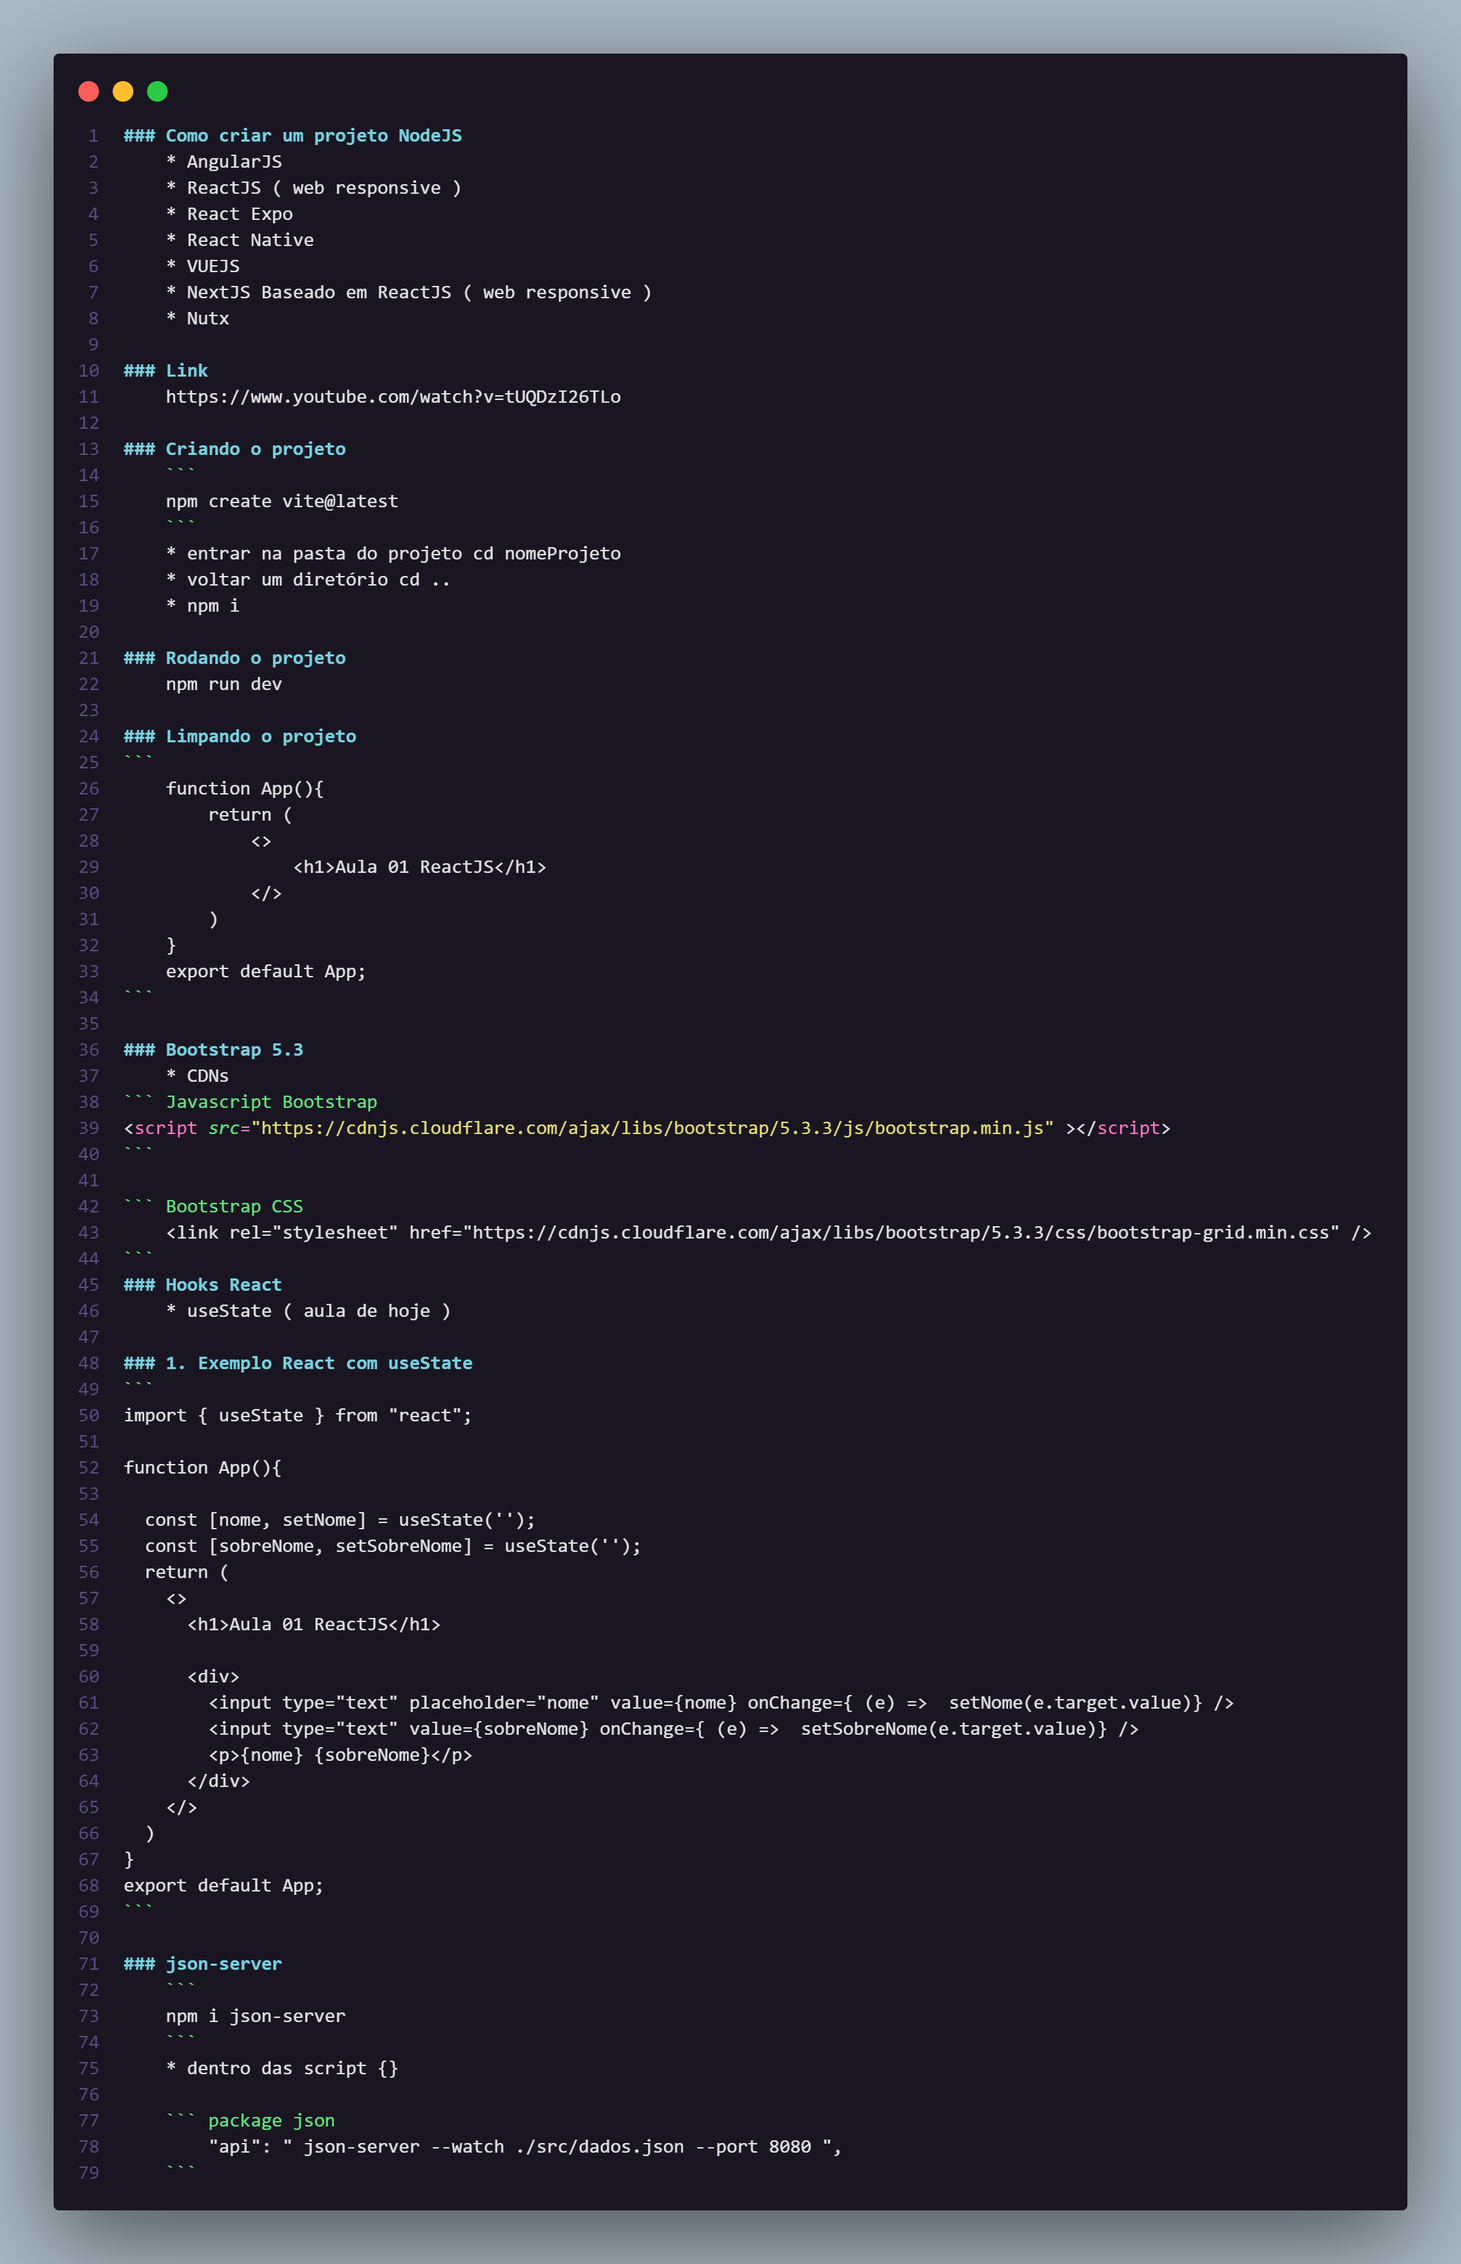
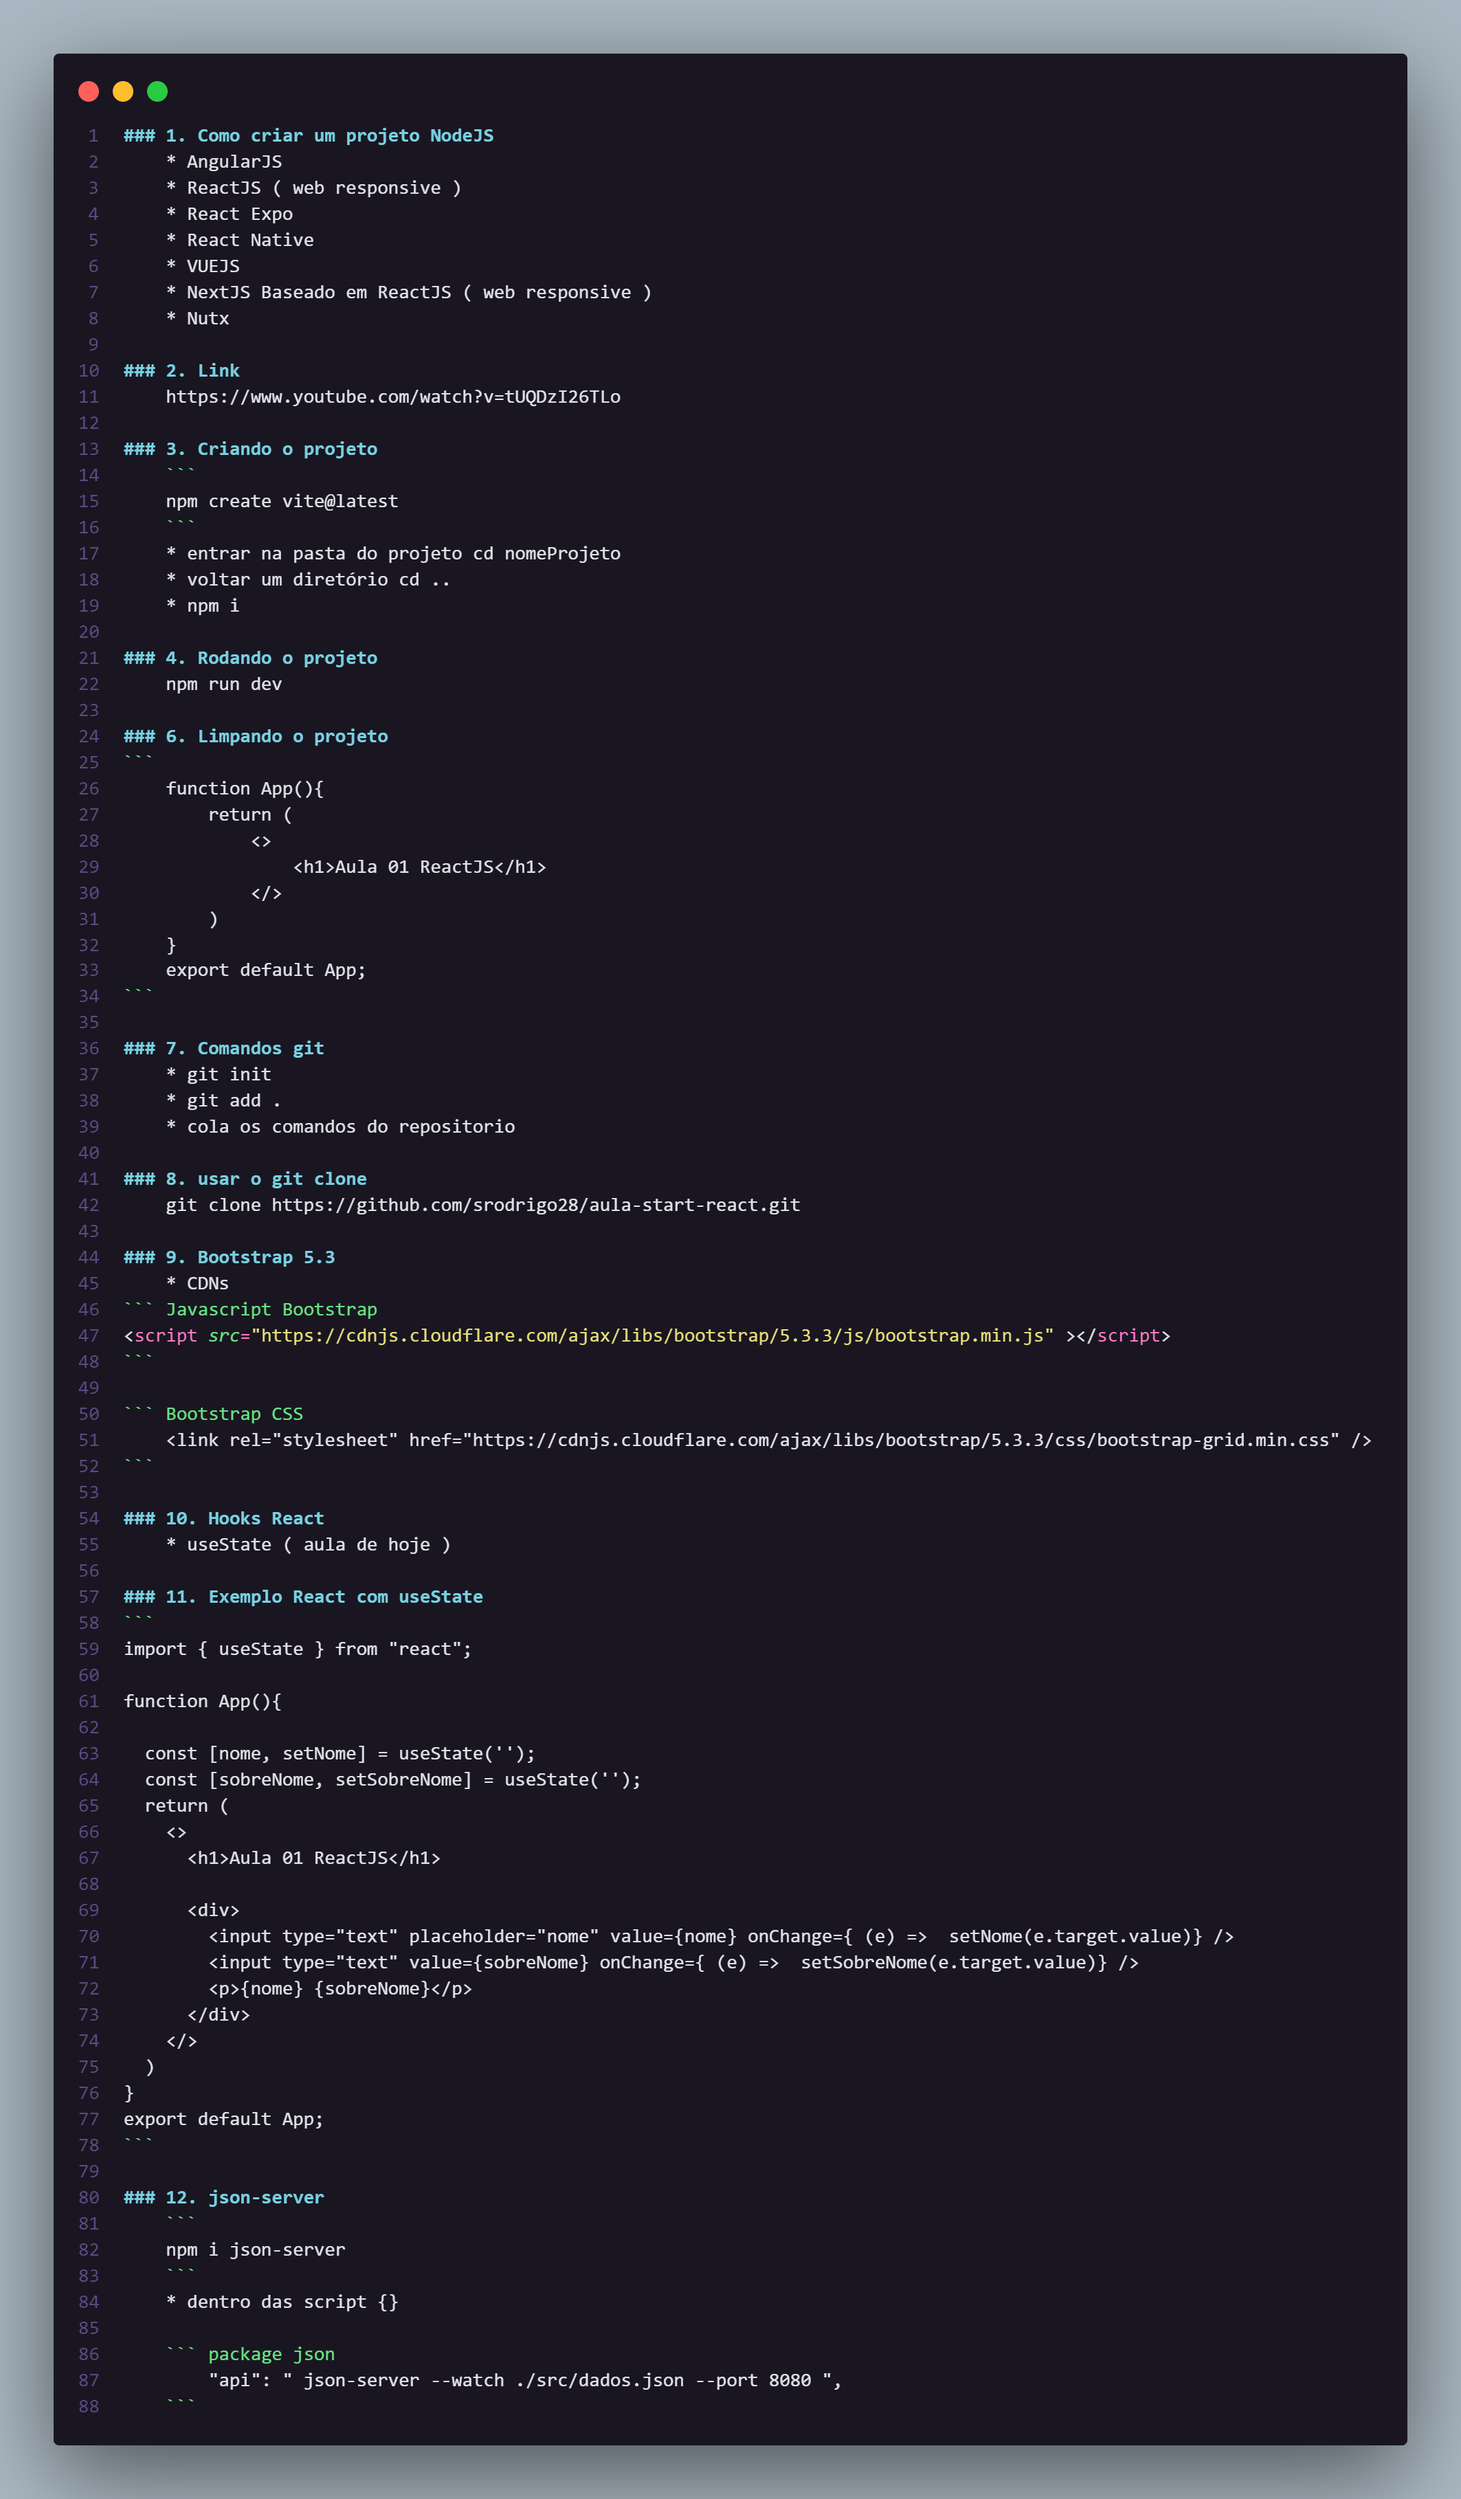
updated

diff --git a/redme.md b/redme.md
@@ -1,4 +1,4 @@
-### Como criar um projeto NodeJS
+### 1. Como criar um projeto NodeJS
     * AngularJS
     * ReactJS ( web responsive )
     * React Expo
@@ -7,10 +7,10 @@
     * NextJS Baseado em ReactJS ( web responsive )
     * Nutx
 
-### Link
+### 2. Link
     https://www.youtube.com/watch?v=tUQDzI26TLo
 
-### Criando o projeto
+### 3. Criando o projeto
     ```
     npm create vite@latest
     ```
@@ -18,10 +18,10 @@
     * voltar um diretório cd ..
     * npm i
 
-### Rodando o projeto
+### 4. Rodando o projeto
     npm run dev
 
-### Limpando o projeto
+### 6. Limpando o projeto
 ```
     function App(){
         return (
@@ -33,7 +33,15 @@
     export default App;
 ```
 
-### Bootstrap 5.3
+### 7. Comandos git
+    * git init
+    * git add .
+    * cola os comandos do repositorio
+
+### 8. usar o git clone
+    git clone https://github.com/srodrigo28/aula-start-react.git
+
+### 9. Bootstrap 5.3
     * CDNs
 ``` Javascript Bootstrap
 <script src="https://cdnjs.cloudflare.com/ajax/libs/bootstrap/5.3.3/js/bootstrap.min.js" ></script>
@@ -42,10 +50,11 @@
 ``` Bootstrap CSS   
     <link rel="stylesheet" href="https://cdnjs.cloudflare.com/ajax/libs/bootstrap/5.3.3/css/bootstrap-grid.min.css" />
 ```
-### Hooks React
+
+### 10. Hooks React
     * useState ( aula de hoje )
 
-### 1. Exemplo React com useState
+### 11. Exemplo React com useState
 ```
 import { useState } from "react";
 
@@ -68,7 +77,7 @@ function App(){
 export default App;
 ```
 
-### json-server
+### 12. json-server
     ```
     npm i json-server
     ```
@@ -77,8 +86,3 @@ export default App;
     ``` package json
         "api": " json-server --watch ./src/dados.json --port 8080 ",
     ```
-
-### Comandos git
-    * git init
-    * git add .
-    * cola os comandos do repositorio
